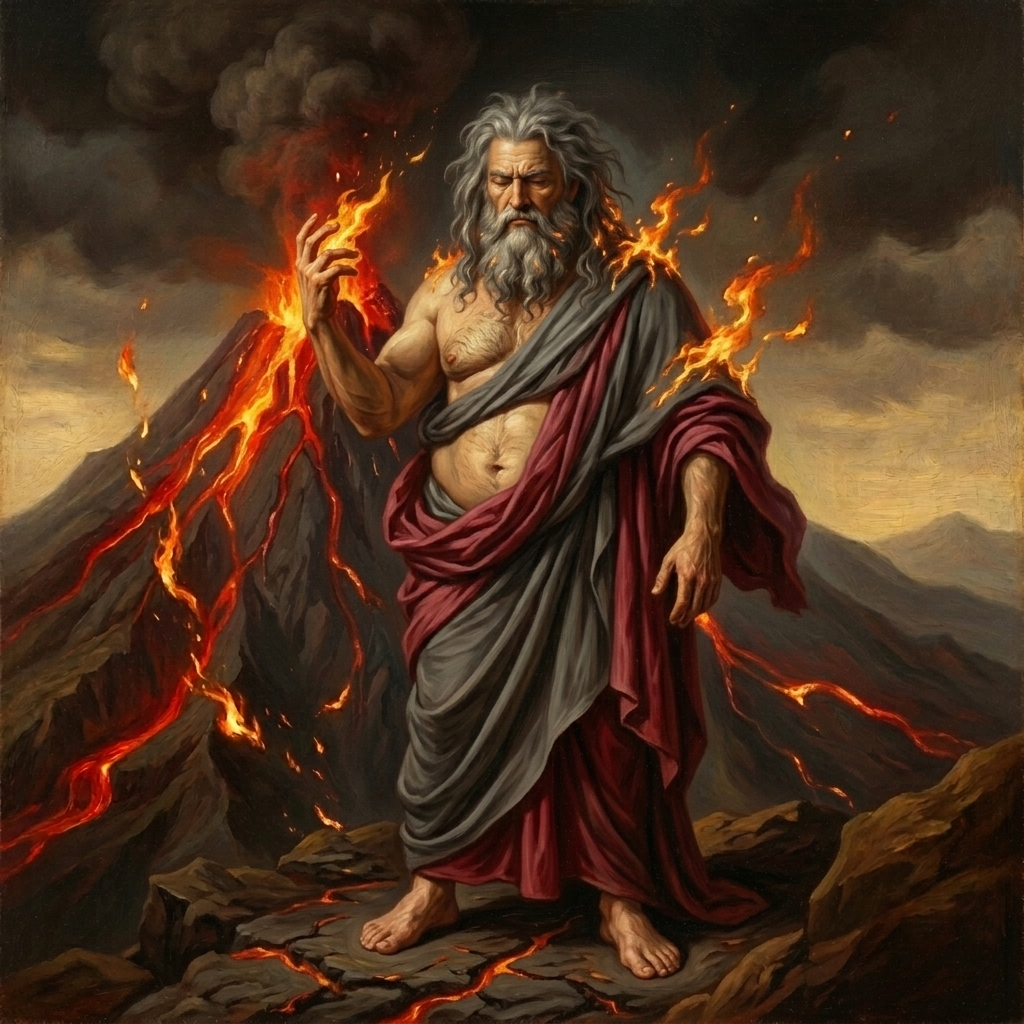
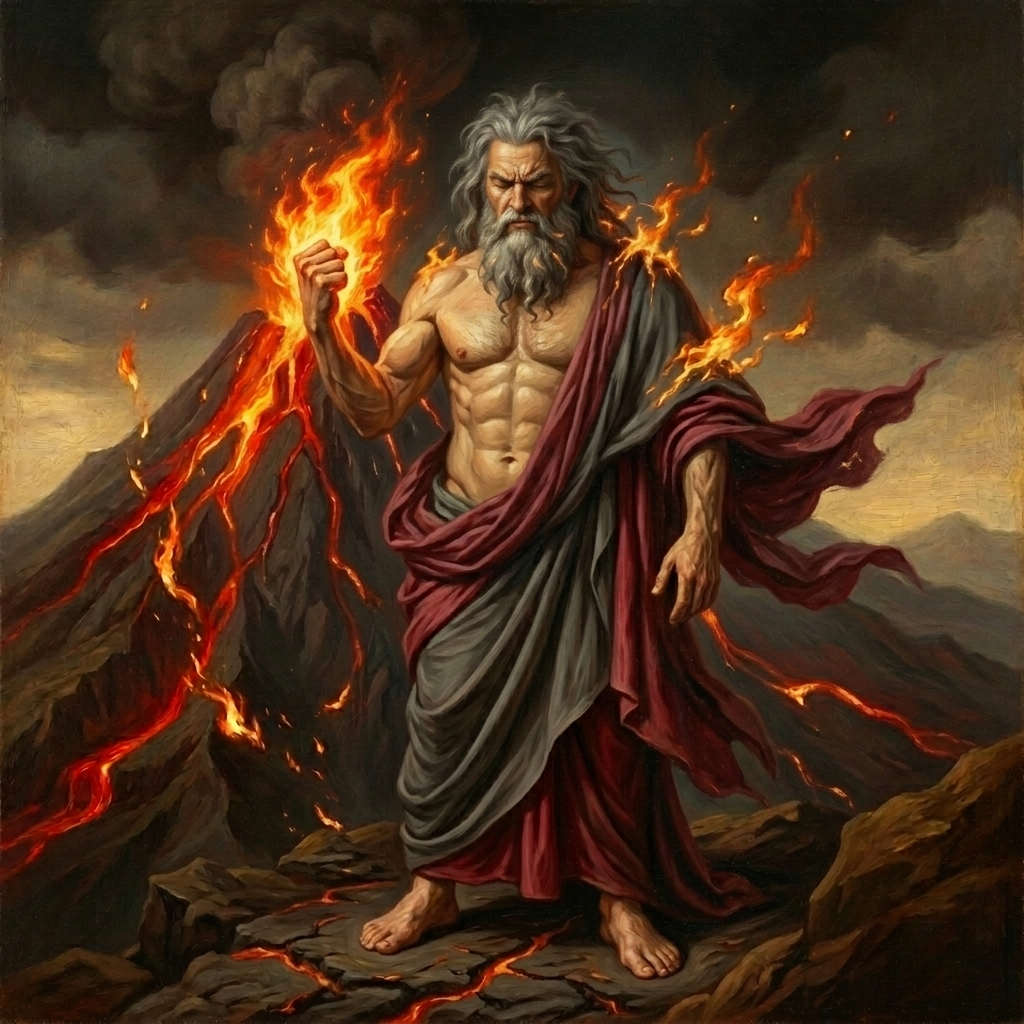
docs: finalize Pyrakos concept art in full-body lean aggressive stance

Changed region(s): [[0.2188, 0.0625, 0.6562, 0.5625], [0.625, 0.3438, 0.9375, 0.5938], [0.625, 0.5938, 0.75, 0.9062]]

diff --git a/docs/world/lore.md b/docs/world/lore.md
@@ -28,7 +28,7 @@ Eskalacja konfliktu między bogami (Pyrakos, Gaya, Nerea, Anemos) doprowadziła 
 *Stworzyciel rasy Ludzi. Reprezentuje ambicję, ekspansję, ciepło, ale i destrukcję.*
 - **Mitologia**: Złamał pakt o nieingerencji i podarował ludziom "Iskrę" (ogień). Ludzie nauczyli się go kontrolować, co szybko doprowadziło do ich dominacji technologicznej i militarnej nad innymi rasami.
 - **Relacje**: W stałym, "gorącym" sojuszu z Boginią Ziemi, Gayą.
-- **Wygląd (Kanon Wizualny)**: Pyrakos ma wygląd potężnego, starszego ludzkiego mężczyzny przedstawionego w pełnej krasie (sylwetka od stóp do głów). Posiada długą, szarą brodę oraz długie, szare włosy opadające naturalnie wokół ramion i twarzy (z wplecionym żarem i płomieniami). Oczy ma zamknięte (stan letargu), a wyraz twarzy jest surowy i gniewny. Jego sylwetka zdradza podeszły wiek – jest ciężka, krępa, z wyraźnie zarysowanym, miękkim brzuchem (brak muskulatury). Odziany jest w drapowane, majestatyczne szaty w kolorach ciemnej szarości i purpurowej czerwieni, które przykrywają dół ciała, odsłaniając jego bose stopy stojące na spękanej lawą ziemi. Stoi w dynamicznej pozie z uniesioną dłonią kontrolującą ogień, a w tle wznosi się potężny, wybuchający wulkan. Całość ma surowy, bezramkowy, malarski charakter.
+- **Wygląd (Kanon Wizualny)**: Pyrakos ma wygląd potężnego, starszego ludzkiego mężczyzny przedstawionego w pełnej krasie (sylwetka od stóp do głów). Posiada długą, szarą brodę oraz długie, szare włosy opadające naturalnie wokół ramion i twarzy (z wplecionym żarem i płomieniami). Oczy ma zamknięte (stan letargu), a wyraz twarzy jest surowy, gniewny i zdecydowany. Jego sylwetka zdradza podeszły wiek, lecz pozostaje silna, dojrzała i naturalnie wysportowana (zręczna, bez nadmiernej otyłości). Odziany jest w drapowane, majestatyczne szaty w kolorach ciemnej szarości i purpurowej czerwieni, które przykrywają dół ciala, odsłaniając jego bose stopy stojące na spękanej lawą ziemi. Stoi w dynamicznej, agresywnej pozie z uniesioną dłonią zaciśniętą w pięść, z której bucha intensywny płomień. W tle wznosi się potężny, gwałtownie wybuchający wulkan. Całość ma surowy, bezramkowy, malarski charakter.
 
 ![Pyrakos, Bóg Ognia](../assets/pyrakos_fire_god.png)
 